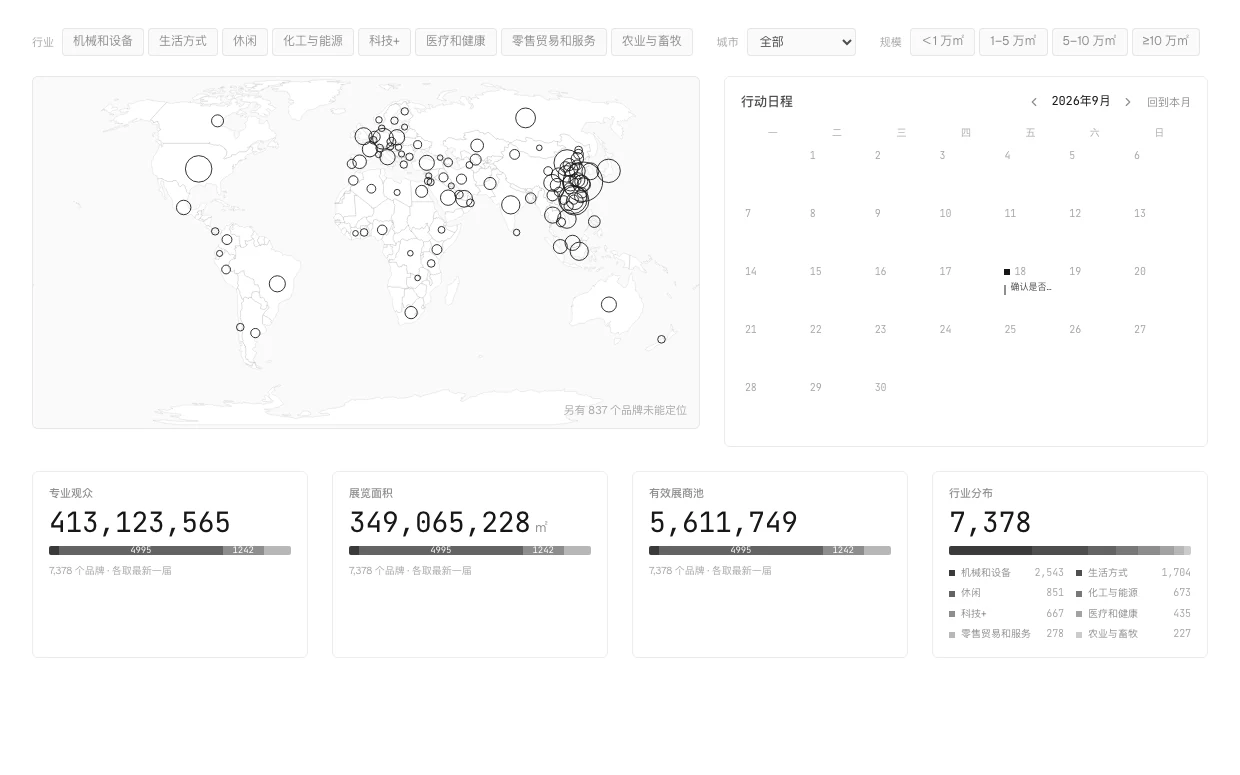
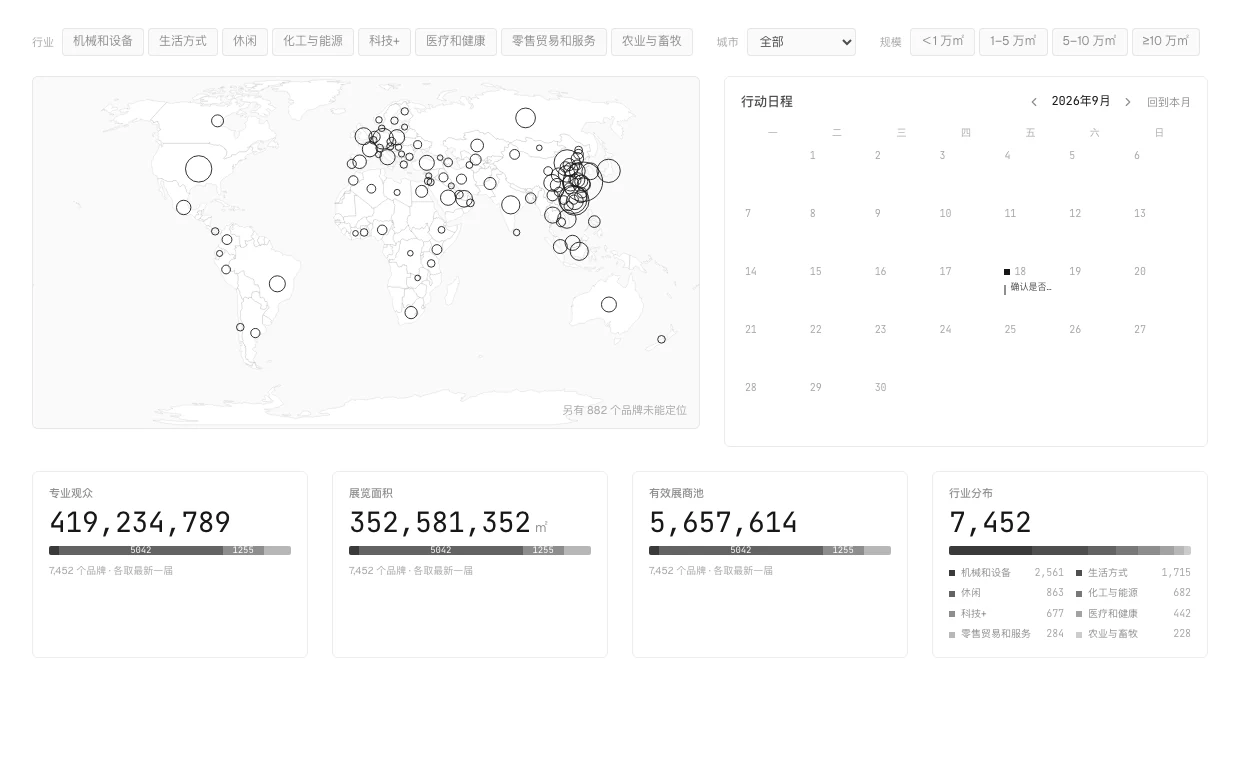
feat: 改密码脚本 + 线上库同步流程（V2-18）
scripts/set_password.py：系统里此前没有任何改密码的途径 —— 登录接口只校验不修改，
个人资料页没有这个功能，seed_users.py 幂等跳过已存在账号。只能手写 SQL 改库。
脚本用 getpass 交互输入（不留 shell 历史）、两次确认、bcrypt 哈希、
短于 8 位拦下（线上公网可访问）、--list 看账号、--show 回显一次。

DEPLOY.md 补两节：
- 「同步数据库到服务器」：.backup 出一致性副本 → integrity_check → 服务器备份 →
  传临时名 → **停服务**换库 → **删旧 -wal/-shm** → 起服务。
  热替换会让 better-sqlite3 拿着旧句柄读出不一致数据；-wal 属于旧库，留着读出旧事务。
- 「改账号密码」：指向 set_password.py 与同步流程。

记下今天踩的坑：换完库必须 rm -rf .next 重新构建。落地页数据在构建时烘进产物，
而 .next/cache 会让 build 复用上一次的预渲染结果 —— 库换了、服务重启了、
cf-cache-status 也确认没走 CDN 缓存，页面照样是旧数字，查了三轮才定位到。

本次同步结果：线上 brands 7,378→7,475、display_ready 7,378→7,452、
editions 7,703→7,778，user 表跟上本地（线上此前还是 seed 默认密码）。
Hero 产品截图同步重截，否则图里的旧数字与页面对不上。

Claude-Session: https://claude.ai/code/session_01NbUyDFN5VSVkHdUFrwQfHn

diff --git a/scripts/set_password.py b/scripts/set_password.py
@@ -1,0 +1,93 @@
+#!/usr/bin/env python3
+"""改某个账号的登录密码。
+
+为什么需要它：系统里**没有任何改密码的途径** —— 登录接口只校验不修改，
+个人资料页没有这个功能，`seed_users.py` 是幂等的（账号已存在就跳过，改不了密码）。
+在此之前只能手写 SQL 直接改库。
+
+用法:
+  python3 scripts/set_password.py admin@mwlab.internal          # 交互式输入，不留 shell 历史
+  python3 scripts/set_password.py admin@mwlab.internal --show   # 改完回显一次，用于抄给同事
+  python3 scripts/set_password.py --list                        # 只看有哪些账号
+
+⚠ 改的是**本地库** `data/mwlab.db`。本地库是唯一数据源，改完要同步到服务器才在线上生效：
+     sqlite3 data/mwlab.db ".backup /tmp/mwlab_upload.db"
+     rsync -avz -e "ssh -i ~/.ssh/MWlab.pem" /tmp/mwlab_upload.db \
+       admin@47.79.17.71:/home/admin/dashboard/data/mwlab.db
+     ssh -i ~/.ssh/MWlab.pem admin@47.79.17.71 \
+       "source ~/.nvm/nvm.sh && pm2 reload mwlab-dashboard"
+   见 docs/DEPLOY.md「同步数据库」。
+"""
+import argparse
+import getpass
+import sqlite3
+import sys
+from pathlib import Path
+
+import bcrypt
+
+ROOT = Path(__file__).resolve().parent.parent
+DB = ROOT / "data" / "mwlab.db"
+
+# 与线上登录页的提示一致：太短的密码挡住，别让公网系统上出现 123456
+MIN_LEN = 8
+
+
+def main() -> int:
+    ap = argparse.ArgumentParser(description="改账号登录密码")
+    ap.add_argument("email", nargs="?", help="要改的账号邮箱")
+    ap.add_argument("--db", default=str(DB), help=f"数据库路径（默认 {DB}）")
+    ap.add_argument("--show", action="store_true", help="改完回显一次明文")
+    ap.add_argument("--list", action="store_true", help="只列出账号，不改")
+    ap.add_argument("--force", action="store_true", help="允许短于 8 位的密码")
+    args = ap.parse_args()
+
+    conn = sqlite3.connect(args.db)
+    conn.row_factory = sqlite3.Row
+
+    rows = conn.execute("SELECT user_id, email, role, is_active FROM user ORDER BY user_id").fetchall()
+    if args.list or not args.email:
+        print(f"{args.db} 里的账号：\n")
+        for r in rows:
+            state = "启用" if r["is_active"] else "停用"
+            print(f"  {r['user_id']}  {r['email']:<28} {r['role']:<9} {state}")
+        if not args.email:
+            print("\n改密码：python3 scripts/set_password.py <邮箱>")
+        return 0
+
+    email = args.email.strip().lower()
+    user = conn.execute("SELECT user_id, email, role FROM user WHERE lower(email) = ?", (email,)).fetchone()
+    if user is None:
+        print(f"✗ 没有这个账号：{args.email}", file=sys.stderr)
+        print("  现有账号：" + "、".join(r["email"] for r in rows), file=sys.stderr)
+        return 1
+
+    pw = getpass.getpass(f"给 {user['email']}（{user['role']}）设新密码: ")
+    if not pw:
+        print("✗ 密码为空，没改", file=sys.stderr)
+        return 1
+    if len(pw) < MIN_LEN and not args.force:
+        print(f"✗ 密码短于 {MIN_LEN} 位。线上是公网可访问的，别用弱密码。", file=sys.stderr)
+        print("  确实要用短密码：加 --force", file=sys.stderr)
+        return 1
+    if pw != getpass.getpass("再输一次确认: "):
+        print("✗ 两次不一致，没改", file=sys.stderr)
+        return 1
+
+    hashed = bcrypt.hashpw(pw.encode("utf-8"), bcrypt.gensalt()).decode("utf-8")
+    conn.execute(
+        "UPDATE user SET password_hash = ? WHERE user_id = ?",
+        (hashed, user["user_id"]),
+    )
+    conn.commit()
+    conn.close()
+
+    print(f"\n✓ 已改 {user['email']} 的密码")
+    if args.show:
+        print(f"  明文：{pw}")
+    print("\n⚠ 改的是本地库。线上生效要同步数据库并重启服务，见本文件头部或 docs/DEPLOY.md。")
+    return 0
+
+
+if __name__ == "__main__":
+    sys.exit(main())

diff --git a/docs/DEPLOY.md b/docs/DEPLOY.md
@@ -284,6 +284,63 @@ pm2 reload mwlab-dashboard     # 零停机重载（推荐）
 
 ---
 
+## 同步数据库到服务器
+
+本地库是唯一数据源。改过数据（跑 pipeline、改密码）后要同步才在线上生效。
+
+```bash
+# 1. 生成一致性副本（直接 cp 会漏掉 WAL 里未合并的事务）
+sqlite3 data/mwlab.db ".backup /tmp/mwlab_upload.db"
+sqlite3 /tmp/mwlab_upload.db "PRAGMA integrity_check;"    # 必须回 ok
+
+# 2. 服务器先备份
+ssh -i ~/.ssh/MWlab.pem admin@47.79.17.71 \
+  "cp ~/dashboard/data/mwlab.db ~/backups/mwlab_pre-sync-$(date +%Y%m%d-%H%M).db"
+
+# 3. 上传到临时名，避免覆盖到一半服务读到残缺文件
+rsync -avz -e "ssh -i ~/.ssh/MWlab.pem" /tmp/mwlab_upload.db \
+  admin@47.79.17.71:/home/admin/dashboard/data/mwlab.db.new
+
+# 4. 停服务 → 换库 → 清旧 WAL → 起服务
+ssh -i ~/.ssh/MWlab.pem admin@47.79.17.71 'source ~/.nvm/nvm.sh
+  pm2 stop mwlab-dashboard
+  cd ~/dashboard/data && mv mwlab.db.new mwlab.db && rm -f mwlab.db-wal mwlab.db-shm
+  pm2 start mwlab-dashboard'
+```
+
+> **必须停服务再换。** better-sqlite3 持有旧库的文件句柄，热替换会读出不一致的数据。
+> **`-wal` / `-shm` 必须删。** 它们属于旧库，留着会让新库读出旧事务。
+
+### ⚠ 换完库要重新构建，否则页面还是旧数字
+
+落地页的数据在**构建时**烘进产物。只换库不重新 build，页面不会变。
+而且 **`.next/cache` 会让 build 复用上一次的预渲染结果** —— 2026-09-18 就踩了这个：
+库换了、服务重启了、`cf-cache-status` 也确认没走 CDN 缓存，页面照样是旧数字。
+
+```bash
+rm -rf .next && npm run build                      # 本地：清掉 Full Route Cache 重建
+ssh -i ~/.ssh/MWlab.pem admin@47.79.17.71 "rm -rf ~/dashboard/.next/cache"
+rsync -avz --delete --exclude dev -e "ssh -i ~/.ssh/MWlab.pem" \
+  .next/ admin@47.79.17.71:/home/admin/dashboard/.next/
+ssh -i ~/.ssh/MWlab.pem admin@47.79.17.71 \
+  "source ~/.nvm/nvm.sh && pm2 reload mwlab-dashboard"
+```
+
+---
+
+## 改账号密码
+
+系统里**没有改密码的界面或接口**。用脚本改本地库，再按上面的流程同步：
+
+```bash
+python3 scripts/set_password.py --list                    # 看有哪些账号
+python3 scripts/set_password.py admin@mwlab.internal      # 交互式输入，不留 shell 历史
+```
+
+密码短于 8 位会被挡（线上是公网可访问的）；确实要用短的加 `--force`。
+
+---
+
 ## 数据库备份
 
 ```bash

diff --git a/docs/QC.md b/docs/QC.md
@@ -94,6 +94,10 @@ opportunity_event         0
 造验收数据用完就删，连同 `opportunity_event` 里的 `stage_change` 一起
 （软删除 `is_archived=1` 是给真实机会用的，验收数据要硬删，别留脏行）。
 
+> **线上库已于 2026-09-18 与本地同步**（此前线上停在 09-17 部署那份，连 `user` 表都没跟上）。
+> 换库要停服务：`pm2 stop` → 替换 `.db` → **删掉旧的 `-wal` / `-shm`** → `pm2 start`。
+> 热替换会让 better-sqlite3 拿着旧句柄读出不一致的数据。
+
 ### 2.3 通用规矩
 
 改库前一律 `cp data/mwlab.db data/backups/mwlab_pre-<任务>-$(date +%Y%m%d).db`。
